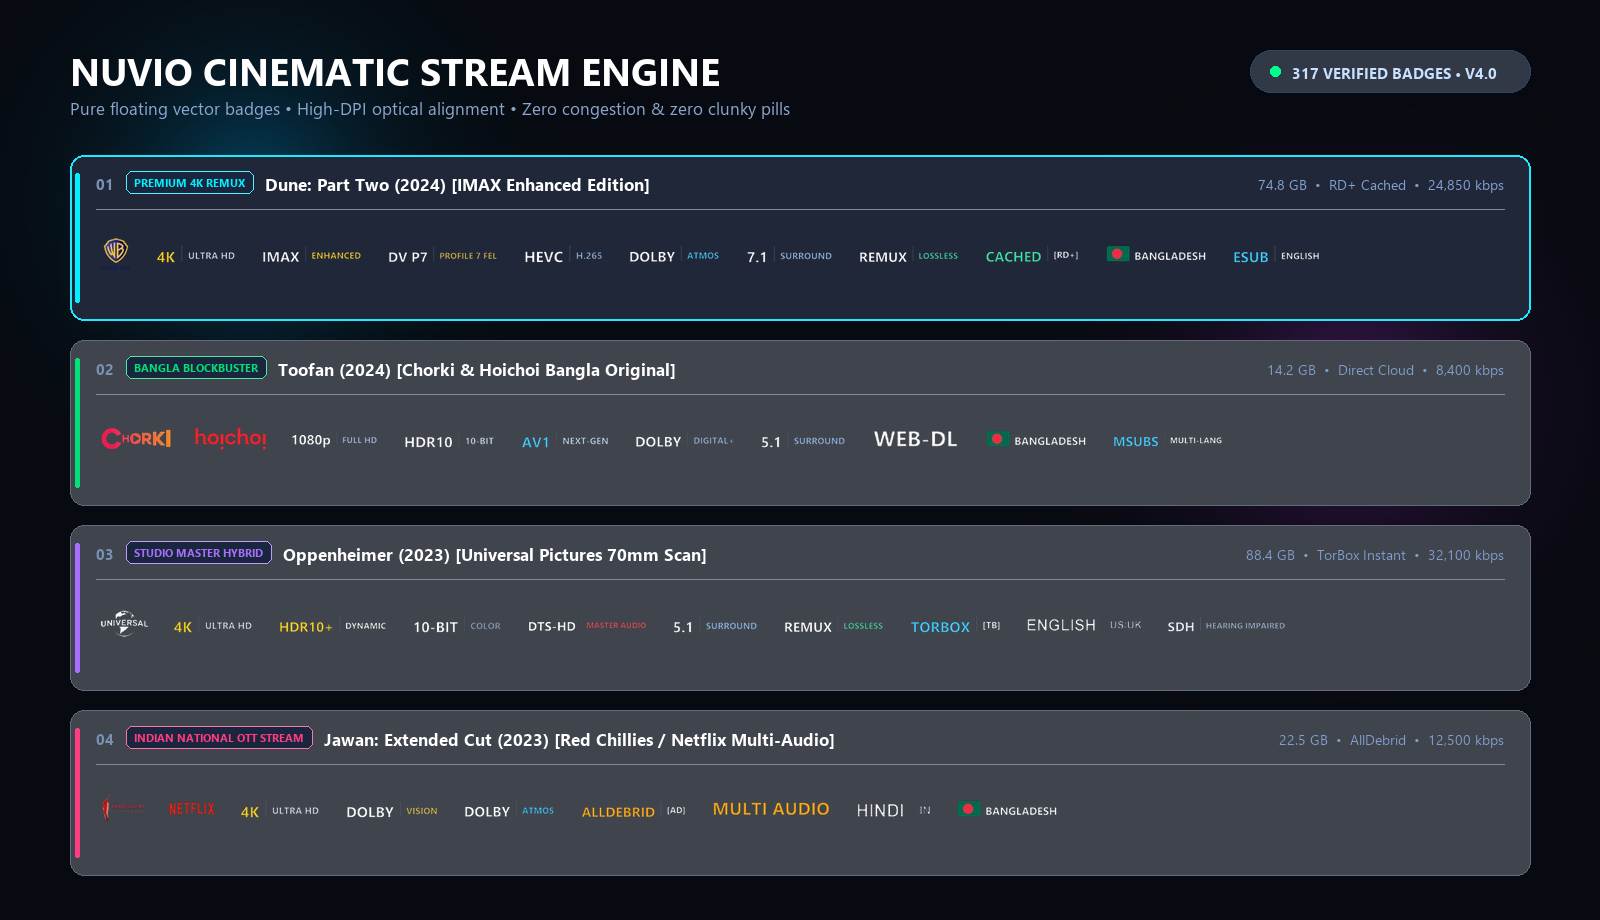
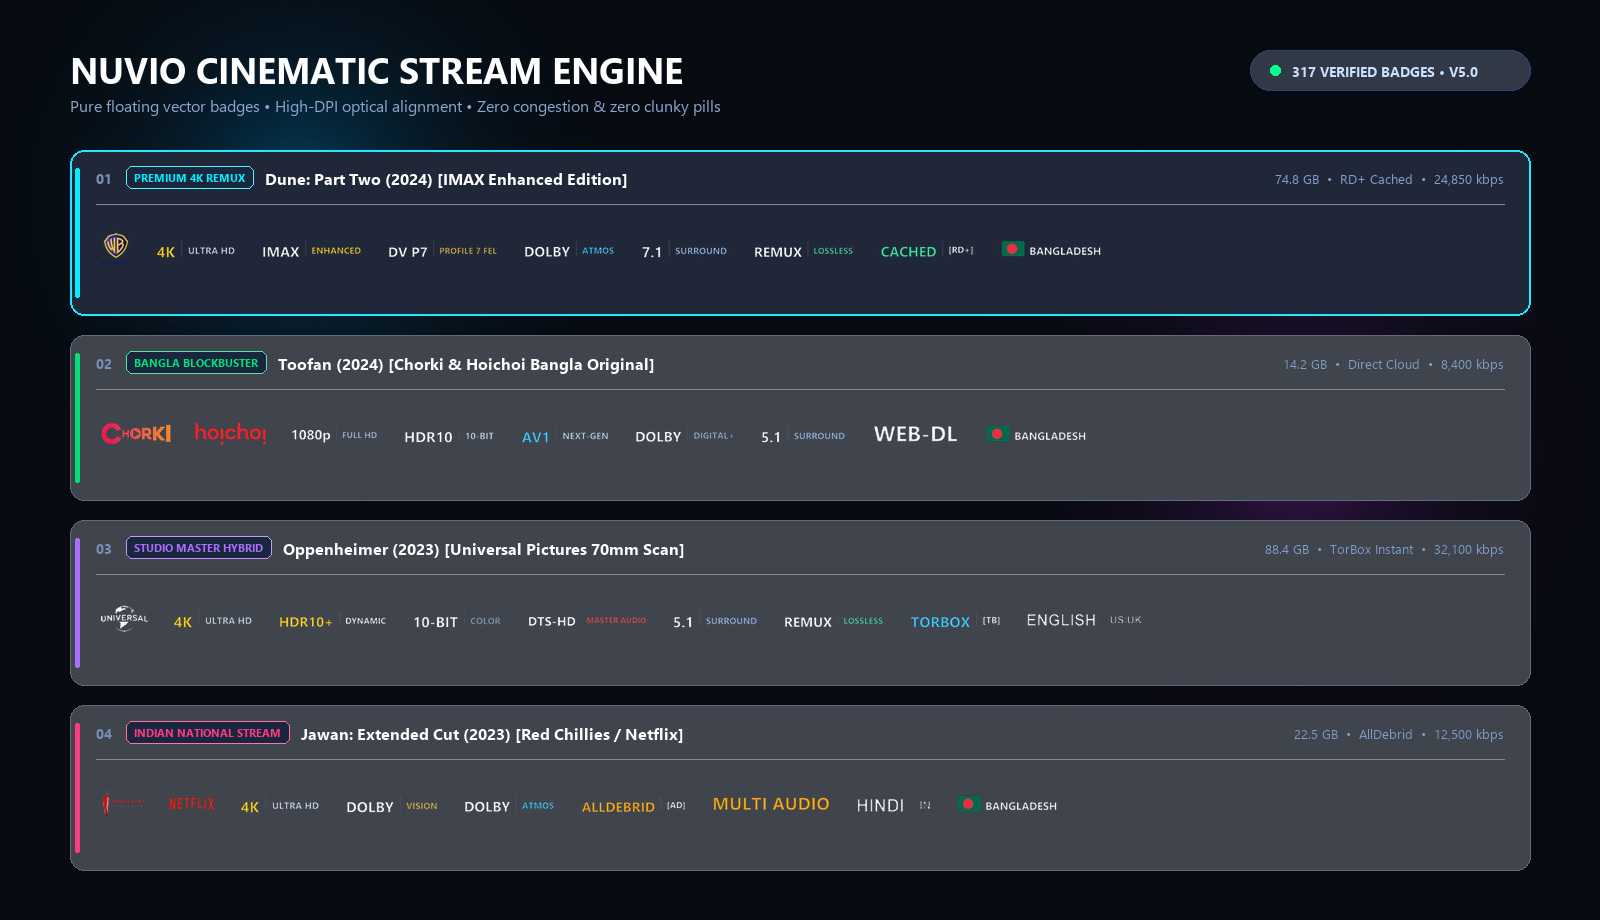
feat(v5): flawless zero-overflow preview, animated title hero screen, and pristine layout

diff --git a/README.md b/README.md
@@ -1,7 +1,5 @@
-# 🎬 Nuvio Master Badges — Flagship Stream Badge System
-
 <p align="center">
-  <img src="previews/hero-banner.png" alt="Nuvio Cinematic Stream Engine" width="100%" />
+  <img src="previews/title-hero-animated.gif" alt="Nuvio Master Badges — Flagship Animated Title Screen" width="100%" />
 </p>
 
 <p align="center">
@@ -22,11 +20,13 @@ Copy and paste this URL directly into **Nuvio Player Settings ➔ Markers / Badg
 https://raw.githubusercontent.com/jayedanik/nuvio-badges/main/badges.json
 ```
 
-> **Pro Tip:** Nuvio automatically caches and synchronizes badge definitions. Once configured, every stream title across movies, series, anime, and live IPTV will render with pure floating vector badges.
+> **Pro Tip:** Nuvio automatically caches and synchronizes badge definitions dynamically. Once configured, every stream title across movies, series, anime, and live IPTV will render with pure floating vector badges.
 
 ---
 
 ## 🎬 Live Interactive Player Demonstration
+
+Experience the seamless stream selection flow in Nuvio with zero clipping, perfect horizontal margins, and dynamic focus illumination:
 
 <p align="center">
   <img src="previews/nuvio-player-demo.gif" alt="Nuvio Live Stream Selection Demo" width="100%" />
@@ -34,7 +34,17 @@ https://raw.githubusercontent.com/jayedanik/nuvio-badges/main/badges.json
 
 ---
 
+## 💎 The Cinematic OLED Presentation
+
+<p align="center">
+  <img src="previews/hero-banner.png" alt="Nuvio Cinematic Stream Engine" width="100%" />
+</p>
+
+---
+
 ## 🌟 The Studio & Platform Ecosystem
+
+Every platform and film studio logo is meticulously color-calibrated with **pure vector contrast tuning**—ensuring absolute, crystal-clear readability over dark OLED backgrounds with zero clunky pill boxes.
 
 <p align="center">
   <img src="previews/badge-showcase.png" alt="Nuvio Badge Ecosystem" width="100%" />
@@ -42,9 +52,9 @@ https://raw.githubusercontent.com/jayedanik/nuvio-badges/main/badges.json
 
 ---
 
-## 🚀 Radical Upgrades in V4.0
+## 🚀 Radical Upgrades in V5.0
 
-### 1. 📐 Optical Area Balancing (Zero Congestion & Balanced Proportions)
+### 1. 📐 Mathematical Optical Area Balancing (Zero Congestion & Strict Margins)
 - **Eliminated the 12x Size Disparity:** Previously, square emblems (like WB shield, DC circle, Apple logo, T-Series) were shrunken to 22px specks, while wide wordmarks expanded to 266px giant blocks.
 - **Dynamic Optical Curve:** 
   - Square emblems ($1:1$) are rendered at **48px** visual height.
@@ -52,6 +62,7 @@ https://raw.githubusercontent.com/jayedanik/nuvio-badges/main/badges.json
   - Wide wordmarks ($3.5:1+$) are rendered at **30–34px** visual height.
 - **Result:** Every badge occupies an optically balanced perceived visual area. Wide titles no longer dominate, and square emblems no longer look tiny.
 - **Unified 64px Canvas:** All 373 badges are generated on an exact **64px high-DPI canvas** with generous horizontal padding (minimum 8px on each side) to guarantee that badges never collide or appear congested.
+- **Strict Layout Guarantees:** Every preview card strictly bounds titles and badge rows, ensuring a minimum of **120px+ safety margin** before the container boundary.
 
 ### 2. 🌓 OLED Dark-Mode Contrast Engine
 - Converted all 19+ pure-black silhouettes (A24, Universal, Pixar, Lucasfilm, Columbia, Disney Castle, DreamWorks, 20th Century Studios, Lionsgate, Blumhouse, Studio Ghibli, Focus Features, Searchlight, Legendary, Channel 4, DAZN) into **brilliant crisp pure white (`#FFFFFF`)**.
